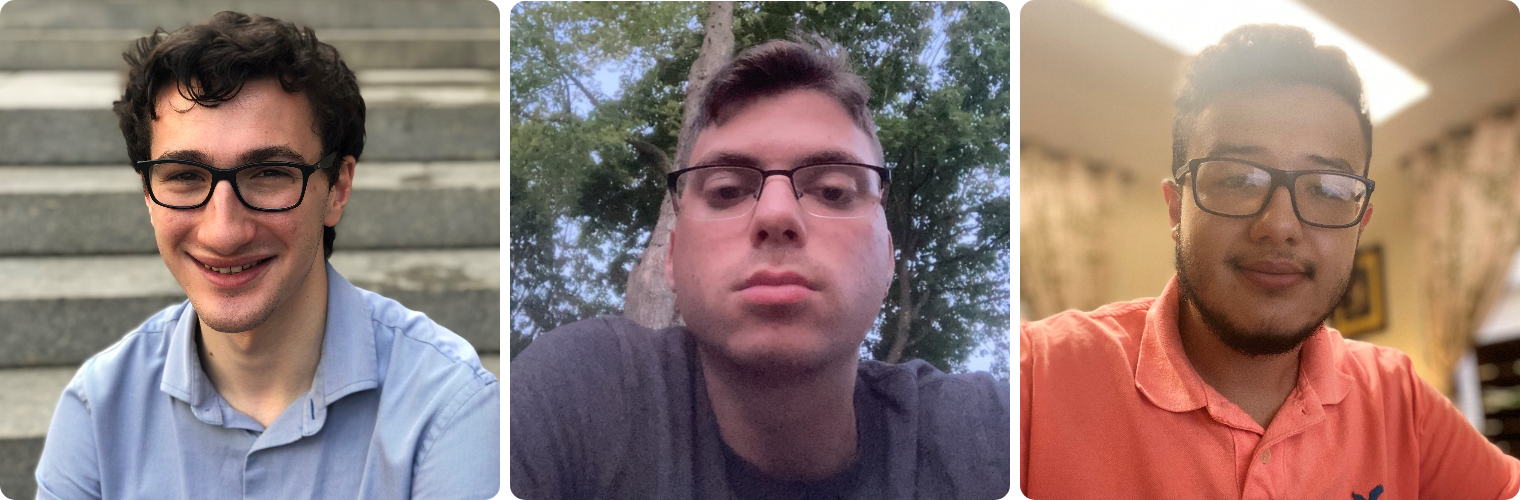
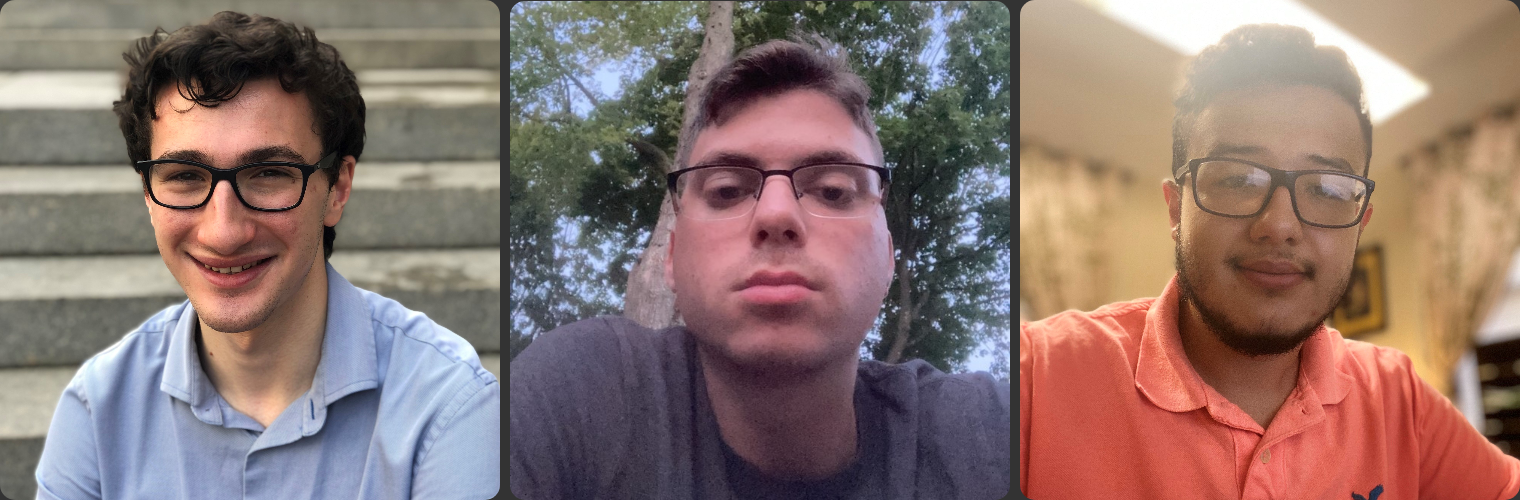
updating team photo bgd color & adding Idea Proposal link

diff --git a/README.md b/README.md
@@ -1,6 +1,6 @@
 # TEAM 1
 
-[## App name]: # 
+# App name TBD
 
 ## Team members
 
@@ -13,9 +13,10 @@
 ![Team photo](./Photos/Team_Photo.png)
 
 ## App description
+TBD
 
 ## Idea Proposal
-[Idea Proposal]()
+[Idea Proposal](https://docs.google.com/document/d/162kcxaSTWXm7B_YTzX195Zy1zFi4aY-7/edit?usp=sharing&ouid=105590931687126019573&rtpof=true&sd=true)
 
 ## Calendar
 [Calendar](https://calendar.google.com/calendar/u/0?cid=aXZoMmU3NjhzMjRkdGlxZWYwcXZvbzhxcjBAZ3JvdXAuY2FsZW5kYXIuZ29vZ2xlLmNvbQ)
